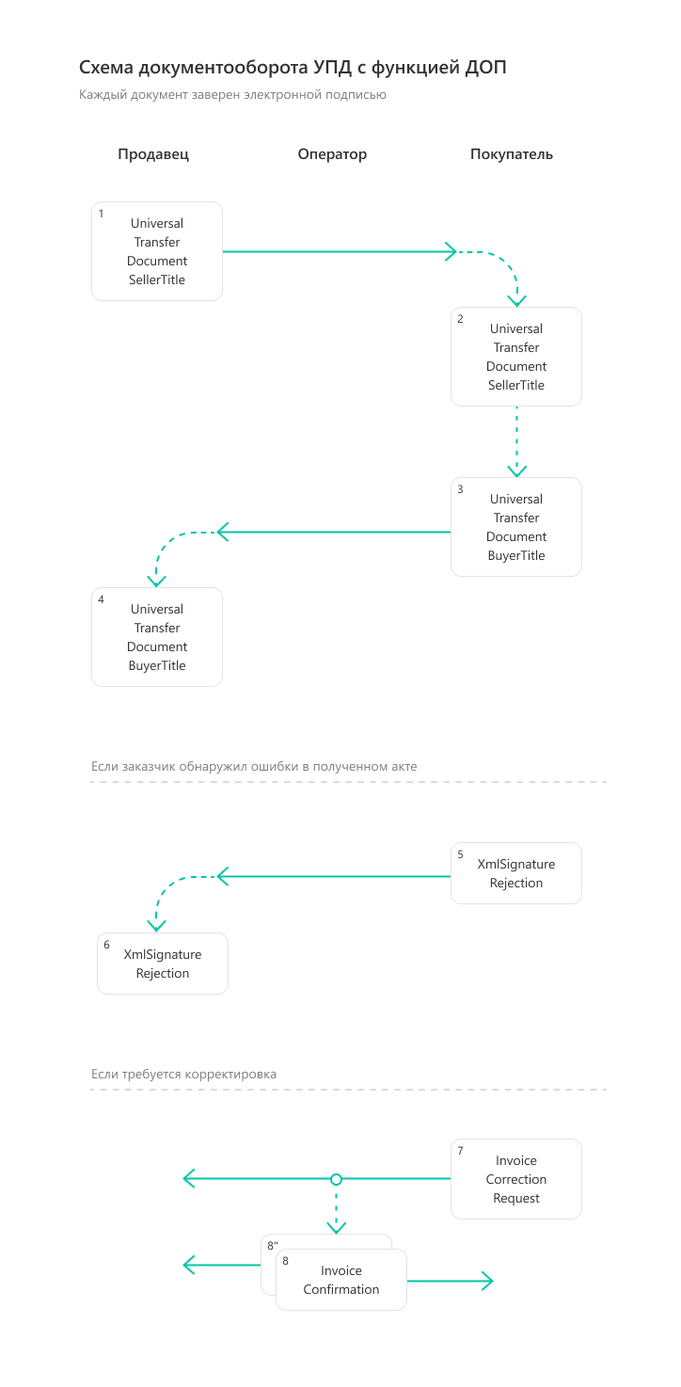
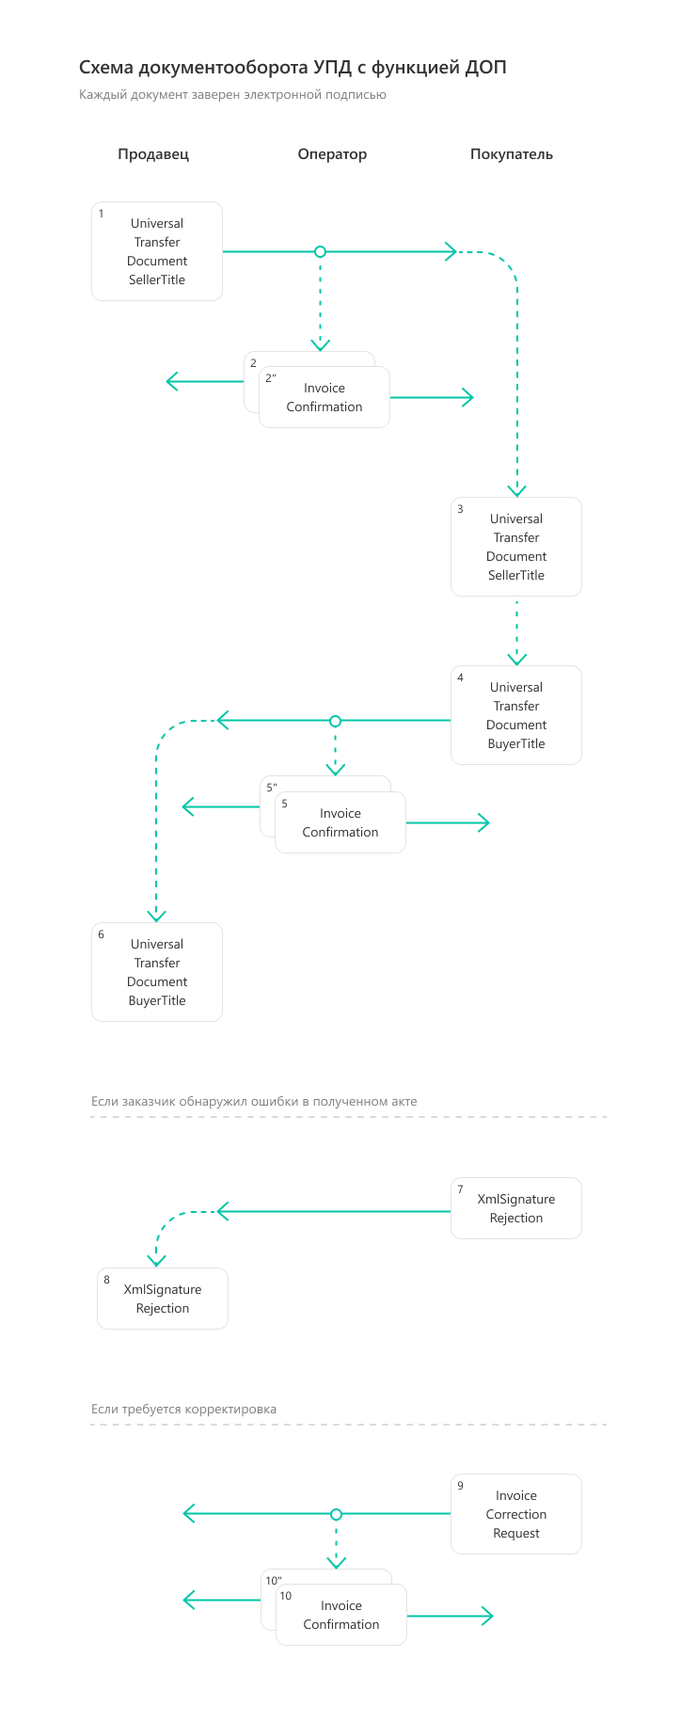
Update UtdDocflow.rst, docflow schemes

diff --git a/docs/source/docflows/UtdDocflow.rst b/docs/source/docflows/UtdDocflow.rst
@@ -49,11 +49,11 @@ XSD-схемы первого и второго титулов УПД после
 
 Для служебных документов, возникающих в ходе реализации порядка обмена УПД с функцией СЧФ:
 
--  *Attachment/InvoiceConfirmation* (подтверждение оператора электронного документооборота на УПД (СЧФ)/иУПД (СЧФ)/УКД (КСЧФ)/иУКД (КСЧФ), на извещение о получении УПД (СЧФ)/иУПД (СЧФ)/УКД (КСЧФ)/иУКД (КСЧФ), на уведомление об уточнении УПД (СЧФ)/иУПД (СЧФ)/УКД (КСЧФ)/иУКД (КСЧФ),
+- *Attachment/InvoiceConfirmation* (подтверждение оператора электронного документооборота на УПД (СЧФ)/иУПД (СЧФ)/УКД (КСЧФ)/иУКД (КСЧФ), на извещение о получении УПД (СЧФ)/иУПД (СЧФ)/УКД (КСЧФ)/иУКД (КСЧФ), на уведомление об уточнении УПД (СЧФ)/иУПД (СЧФ)/УКД (КСЧФ)/иУКД (КСЧФ),
 
--  *Attachment/InvoiceCorrectionRequest* (уведомление об уточнении УПД (СЧФ)/иУПД (СЧФ)/УКД (КСЧФ)/иУКД (КСЧФ)),
+- *Attachment/InvoiceCorrectionRequest* (уведомление об уточнении УПД (СЧФ)/иУПД (СЧФ)/УКД (КСЧФ)/иУКД (КСЧФ)),
 
--  *Attachment/InvoiceReceipt* (извещение о получении УПД (СЧФ)/иУПД (СЧФ)/УКД (КСЧФ)/иУКД (КСЧФ)).
+- *Attachment/InvoiceReceipt* (извещение о получении УПД (СЧФ)/иУПД (СЧФ)/УКД (КСЧФ)/иУКД (КСЧФ)).
 
 
 Порядок обмена
@@ -63,23 +63,23 @@ XSD-схемы первого и второго титулов УПД после
 
 Порядок документооборота, связанного с выставлением и получением счетов-фактур в электронном виде с ЭП, утвержден приказом Минфина `от 05.02.2021 N 14Н <https://normativ.kontur.ru/document?moduleId=1&documentId=385831>`_.
 
-#.  Продавец формирует УПД (СЧФ) *UniversalTransferDocument*\ :sub:`1`\, подписывает его и направляет Покупателю.
+#. Продавец формирует УПД (СЧФ) *UniversalTransferDocument*\ :sub:`1`\, подписывает его и направляет Покупателю.
 
-#.  Диадок формирует подтверждение оператора *InvoiceConfirmation*\ :sub:`2`\  о дате получения УПД (СЧФ), подписывает его и направляет Продавцу.
+#. Диадок формирует подтверждение оператора *InvoiceConfirmation*\ :sub:`2`\  о дате получения УПД (СЧФ), подписывает его и направляет Продавцу.
 
-#.  Диадок формирует подтверждение оператора *InvoiceConfirmation*\ :sub:`2'`\  о дате отправки УПД (СЧФ), подписывает его и направляет вместе с УПД (СЧФ) Покупателю.
+#. Диадок формирует подтверждение оператора *InvoiceConfirmation*\ :sub:`2'`\  о дате отправки УПД (СЧФ), подписывает его и направляет вместе с УПД (СЧФ) Покупателю.
 
-#.  Покупатель получает УПД (СЧФ) и подтверждение оператора и отправляет в ответ подписанные извещение *InvoiceReceipt*\ :sub:`3`\  о получении УПД (СЧФ).
+#. Покупатель получает УПД (СЧФ) и подтверждение оператора и отправляет в ответ подписанные извещение *InvoiceReceipt*\ :sub:`3`\  о получении УПД (СЧФ).
 
-#.  Диадок формирует подтверждение оператора *InvoiceConfirmation*\ :sub:`4`\  о дате получения извещения о получении УПД (СЧФ), подписывает его и направляет Покупателю.
+#. Диадок формирует подтверждение оператора *InvoiceConfirmation*\ :sub:`4`\  о дате получения извещения о получении УПД (СЧФ), подписывает его и направляет Покупателю.
 
-#.  Диадок формирует подтверждение оператора *InvoiceConfirmation*\ :sub:`4'`\  о дате отправки извещения о получении УПД (СЧФ), подписывает его и направляет вместе с извещением о получении Продавцу.
+#. Диадок формирует подтверждение оператора *InvoiceConfirmation*\ :sub:`4'`\  о дате отправки извещения о получении УПД (СЧФ), подписывает его и направляет вместе с извещением о получении Продавцу.
 
-#.  Если Покупатель обнаружил ошибки в полученном УПД (СЧФ), он формирует уведомление об уточнении УПД (СЧФ) *InvoiceCorrectionRequest*\ :sub:`5`\, подписывает его и направляет Продавцу.
+#. Если Покупатель обнаружил ошибки в полученном УПД (СЧФ), он формирует уведомление об уточнении УПД (СЧФ) *InvoiceCorrectionRequest*\ :sub:`5`\, подписывает его и направляет Продавцу.
 
-#.  Диадок формирует подтверждение оператора *InvoiceConfirmation*\ :sub:`6`\  о дате получения уведомления об уточнении УПД (СЧФ), подписывает его и направляет Покупателю.
+#. Диадок формирует подтверждение оператора *InvoiceConfirmation*\ :sub:`6`\  о дате получения уведомления об уточнении УПД (СЧФ), подписывает его и направляет Покупателю.
 
-#.  Диадок формирует подтверждение оператора *InvoiceConfirmation*\ :sub:`6'`\  о дате отправки уведомления об уточнении УПД (СЧФ), подписывает его и направляет вместе с уведомлением об уточнении УПД (СЧФ) Продавцу.
+#. Диадок формирует подтверждение оператора *InvoiceConfirmation*\ :sub:`6'`\  о дате отправки уведомления об уточнении УПД (СЧФ), подписывает его и направляет вместе с уведомлением об уточнении УПД (СЧФ) Продавцу.
 
 .. image:: ../_static/img/docflows/scheme-14n-utd-invoice-docflow.png
     :align: center
@@ -102,23 +102,27 @@ XSD-схемы первого и второго титулов УПД после
 
 В случае, когда УПД используется с функцией ДОП, документооборот повторяет документооборот :doc:`актов <AktDocflow>` и :doc:`накладных <Torg12Docflow>`.
 
-#.  Продавец формирует титул продавца УПД (ДОП) *UniversalTransferDocument*\ :sub:`1`\, подписывает его и направляет Покупателю.
+#. Продавец формирует титул продавца УПД (ДОП) *UniversalTransferDocument*\ :sub:`1`\, подписывает его и направляет Покупателю.
 
-#.  Диадок доставляет титул продавца УПД (ДОП) *UniversalTransferDocument*\ :sub:`1`\  до Покупателя.
+#. Диадок формирует подтверждение оператора *InvoiceConfirmation*\ :sub:`2`\  о дате получения УПД (ДОП), подписывает его и направляет Продавцу.
 
-#.  Покупатель получает титул продавца УПД (ДОП) *UniversalTransferDocument*\ :sub:`2`\, и формирует в ответ титул покупателя *UniversalTransferDocumentBuyerTitle*\ :sub:`3`\, подписывает его и отправляет в сторону Продавца.
+#. Диадок формирует подтверждение оператора *InvoiceConfirmation*\ :sub:`2'`\  о дате отправки УПД (ДОП), подписывает его и направляет вместе с УПД (ДОП) Покупателю.
 
-#.  Диадок доставляет титул покупателя УПД (ДОП) *UniversalTransferDocumentBuyerTitle*\ :sub:`4`\  до Продавца.
+#. Покупатель получает титул продавца УПД (ДОП) *UniversalTransferDocument*\ :sub:`3`\, и формирует в ответ титул покупателя *UniversalTransferDocumentBuyerTitle*\ :sub:`4`\, подписывает его и отправляет в сторону Продавца.
 
-#.  Если Покупатель обнаружил ошибки в полученном титуле продавца УПД (ДОП), он формирует отказ в подписи *XmlSignatureRejection*\ :sub:`5`\, подписывает его и направляет Продавцу.
+#. Диадок формирует подтверждение оператора *InvoiceConfirmation*\ :sub:`5`\  о дате получения УПД (ДОП), подписывает его и направляет Покупателю.
 
-#.  Диадок доставляет отказ в подписи *XmlSignatureRejection*\ :sub:`6`\  до Продавца.
+#. Диадок формирует подтверждение оператора *InvoiceConfirmation*\ :sub:`5'`\  о дате отправки УПД (ДОП), подписывает его и направляет вместе с УПД (ДОП) Продавцу.
 
-#.  Если Покупатель обнаружил ошибки в полученном титуле продавца УПД (ДОП), он формирует уведомление об уточнении УПД (ДОП) *InvoiceCorrectionRequest*\ :sub:`7`\, подписывает его и направляет Продавцу.
+#. Если Покупатель обнаружил ошибки в полученном титуле продавца УПД (ДОП), он формирует отказ в подписи *XmlSignatureRejection*\ :sub:`7`\, подписывает его и направляет Продавцу.
 
-#.  Диадок формирует подтверждение оператора *InvoiceConfirmation*\ :sub:`8`\  о дате получения уведомления об уточнении УПД (ДОП), подписывает его и направляет Покупателю.
+#. Диадок доставляет отказ в подписи *XmlSignatureRejection*\ :sub:`8`\  до Продавца.
 
-#.  Диадок формирует подтверждение оператора *InvoiceConfirmation*\ :sub:`8'`\  о дате отправки уведомления об уточнении УПД (ДОП), подписывает его и направляет вместе с уведомлением об уточнении УПД (ДОП) Продавцу.
+#. Если Покупатель обнаружил ошибки в полученном титуле продавца УПД (ДОП), он формирует уведомление об уточнении УПД (ДОП) *InvoiceCorrectionRequest*\ :sub:`9`\, подписывает его и направляет Продавцу.
+
+#. Диадок формирует подтверждение оператора *InvoiceConfirmation*\ :sub:`10`\  о дате получения уведомления об уточнении УПД (ДОП), подписывает его и направляет Покупателю.
+
+#. Диадок формирует подтверждение оператора *InvoiceConfirmation*\ :sub:`10'`\  о дате отправки уведомления об уточнении УПД (ДОП), подписывает его и направляет вместе с уведомлением об уточнении УПД (ДОП) Продавцу.
 
 .. image:: ../_static/img/docflows/scheme-14n-utd-basic-docflow.png
     :align: center
@@ -129,29 +133,31 @@ XSD-схемы первого и второго титулов УПД после
 
 В случае, когда УПД используется с функцией СЧФДОП, объединяются документообороты для УПД с фунцией СЧФ и УПД с фунцией ДОП.
 
-#.  Продавец формирует УПД (СЧФДОП) *UniversalTransferDocument*\ :sub:`1`\, подписывает его и направляет Покупателю.
+#. Продавец формирует УПД (СЧФДОП) *UniversalTransferDocument*\ :sub:`1`\, подписывает его и направляет Покупателю.
 
-#.  Диадок формирует подтверждение оператора *InvoiceConfirmation*\ :sub:`2`\  о дате получения титула продавца УПД (СЧФДОП), подписывает его и направляет Продавцу.
+#. Диадок формирует подтверждение оператора *InvoiceConfirmation*\ :sub:`2`\  о дате получения титула продавца УПД (СЧФДОП), подписывает его и направляет Продавцу.
 
-#.  Диадок формирует подтверждение оператора *InvoiceConfirmation*\ :sub:`2'`\  о дате отправки титула продавца УПД (СЧФДОП), подписывает его и направляет вместе с УПД (СЧФДОП) Покупателю.
+#. Диадок формирует подтверждение оператора *InvoiceConfirmation*\ :sub:`2'`\  о дате отправки титула продавца УПД (СЧФДОП), подписывает его и направляет вместе с УПД (СЧФДОП) Покупателю.
 
-#.  Покупатель получает титул продавца УПД (СЧФДОП) и подтверждение оператора и отправляет в ответ подписанные извещение *InvoiceReceipt*\ :sub:`3`\  о титула продавца УПД (СЧФДОП).
+#. Покупатель получает титул продавца УПД (СЧФДОП) и подтверждение оператора и отправляет в ответ подписанное извещение *InvoiceReceipt*\ :sub:`3`\  о получении титула продавца УПД (СЧФДОП).
 
-#.  Диадок формирует подтверждение оператора *InvoiceConfirmation*\ :sub:`4`\  о дате получения извещения о получении титула продавца УПД (СЧФДОП), подписывает его и направляет Покупателю.
+#. Диадок формирует подтверждение оператора *InvoiceConfirmation*\ :sub:`4`\  о дате получения извещения о получении титула продавца УПД (СЧФДОП), подписывает его и направляет Покупателю.
 
-#.  Диадок формирует подтверждение оператора *InvoiceConfirmation*\ :sub:`4'`\  о дате отправки извещения о получении титула продавца УПД (СЧФДОП), подписывает его и направляет вместе с извещением о получении Продавцу.
+#. Диадок формирует подтверждение оператора *InvoiceConfirmation*\ :sub:`4'`\  о дате отправки извещения о получении титула продавца УПД (СЧФДОП), подписывает его и направляет вместе с извещением о получении Продавцу.
 
-#.  Покупатель формирует в ответ на титул продавца УПД (СЧФДОП) титул покупателя УПД (СЧФДОП) *UniversalTransferDocumentBuyerTitle*\ :sub:`5`\, подписывает его и отправляет в сторону Продавца.
+#. Покупатель формирует в ответ на титул продавца УПД (СЧФДОП) титул покупателя УПД (СЧФДОП) *UniversalTransferDocumentBuyerTitle*\ :sub:`5`\, подписывает его и отправляет в сторону Продавца.
 
-#. Диадок доставляет титул покупателя УПД (СЧФДОП) *UniversalTransferDocumentBuyerTitle*\ :sub:`5`\  до Продавца.
+#. Диадок формирует подтверждение оператора *InvoiceConfirmation*\ :sub:`6`\  о дате получения титула покупателя УПД (СЧФДОП), подписывает его и направляет Покупателю.
 
-#.  Если Покупатель обнаружил ошибки в полученном титуле продавца УПД (СЧФДОП), он формирует отказ в подписи *XmlSignatureRejection*\ :sub:`6`\, подписывает его и направляет Продавцу.
+#. Диадок формирует подтверждение оператора *InvoiceConfirmation*\ :sub:`6'`\  о дате отправки титула покупателя УПД (СЧФДОП), подписывает его и направляет вместе с титулом покупателя Продавцу.
 
-#.  Если Покупатель обнаружил ошибки в полученном титуле продавца УПД (СЧФДОП), он формирует уведомление об уточнении УПД (СЧФДОП) *InvoiceCorrectionRequest*\ :sub:`7`\, подписывает его и направляет Продавцу.
+#. Если Покупатель обнаружил ошибки в полученном титуле продавца УПД (СЧФДОП), он формирует отказ в подписи *XmlSignatureRejection*\ :sub:`7`\, подписывает его и направляет Продавцу.
 
-#.  Диадок формирует подтверждение оператора *InvoiceConfirmation*\ :sub:`8`\  о дате получения уведомления об уточнении УПД (СЧФДОП), подписывает его и направляет Покупателю.
+#. Если Покупатель обнаружил ошибки в полученном титуле продавца УПД (СЧФДОП), он формирует уведомление об уточнении УПД (СЧФДОП) *InvoiceCorrectionRequest*\ :sub:`8`\, подписывает его и направляет Продавцу.
 
-#.  Диадок формирует подтверждение оператора *InvoiceConfirmation*\ :sub:`8'`\  о дате отправки уведомления об уточнении УПД (СЧФДОП), подписывает его и направляет вместе с уведомлением об уточнении УПД (СЧФДОП) Продавцу.
+#. Диадок формирует подтверждение оператора *InvoiceConfirmation*\ :sub:`9`\  о дате получения уведомления об уточнении УПД (СЧФДОП), подписывает его и направляет Покупателю.
+
+#. Диадок формирует подтверждение оператора *InvoiceConfirmation*\ :sub:`9'`\  о дате отправки уведомления об уточнении УПД (СЧФДОП), подписывает его и направляет вместе с уведомлением об уточнении УПД (СЧФДОП) Продавцу.
 
 .. image:: ../_static/img/docflows/scheme-14n-utd-docflow.png
     :align: center
@@ -186,11 +192,11 @@ XSD-схемы первого и второго титулов УПД после
 
 Для служебных документов, возникающих в ходе реализации порядка обмена УПД с функцией СЧФ:
 
--  *Attachment/InvoiceConfirmation* (подтверждение оператора электронного документооборота на УПД (СЧФ)/иУПД (СЧФ)/УКД (КСЧФ)/иУКД (КСЧФ), на извещение о получении УПД (СЧФ)/иУПД (СЧФ)/УКД (КСЧФ)/иУКД (КСЧФ),
+- *Attachment/InvoiceConfirmation* (подтверждение оператора электронного документооборота на УПД (СЧФ)/иУПД (СЧФ)/УКД (КСЧФ)/иУКД (КСЧФ), на извещение о получении УПД (СЧФ)/иУПД (СЧФ)/УКД (КСЧФ)/иУКД (КСЧФ),
 
--  *Attachment/InvoiceCorrectionRequest* (уведомление об уточнении УПД (СЧФ)/иУПД (СЧФ)/УКД (КСЧФ)/иУКД (КСЧФ)),
+- *Attachment/InvoiceCorrectionRequest* (уведомление об уточнении УПД (СЧФ)/иУПД (СЧФ)/УКД (КСЧФ)/иУКД (КСЧФ)),
 
--  *Attachment/InvoiceReceipt* (извещение о получении УПД (СЧФ)/иУПД (СЧФ)/УКД (КСЧФ)/иУКД (КСЧФ), подтверждения оператора электронного документооборота, уведомления об уточнении УПД (СЧФ)/иУПД (СЧФ)/УКД (КСЧФ)/иУКД (КСЧФ)).
+- *Attachment/InvoiceReceipt* (извещение о получении УПД (СЧФ)/иУПД (СЧФ)/УКД (КСЧФ)/иУКД (КСЧФ), подтверждения оператора электронного документооборота, уведомления об уточнении УПД (СЧФ)/иУПД (СЧФ)/УКД (КСЧФ)/иУКД (КСЧФ)).
 
 
 Порядок обмена
@@ -198,23 +204,23 @@ XSD-схемы первого и второго титулов УПД после
 
 В случае, когда УПД используется с функцией СЧФ, документооборот повторяет :doc:`документооборот СФ <InvoiceDocflow>`.
 
-#.  Продавец формирует УПД (СЧФ) *UniversalTransferDocument*\ :sub:`1`\, подписывает его и направляет Покупателю.
+#. Продавец формирует УПД (СЧФ) *UniversalTransferDocument*\ :sub:`1`\, подписывает его и направляет Покупателю.
 
-#.  Диадок формирует подтверждение оператора *InvoiceConfirmation*\ :sub:`2`\  о дате получения УПД (СЧФ), подписывает его и направляет Продавцу.
+#. Диадок формирует подтверждение оператора *InvoiceConfirmation*\ :sub:`2`\  о дате получения УПД (СЧФ), подписывает его и направляет Продавцу.
 
-#.  Диадок формирует подтверждение оператора *InvoiceConfirmation*\ :sub:`2'`\  о дате отправки УПД (СЧФ), подписывает его и направляет вместе с УПД (СЧФ) Покупателю.
+#. Диадок формирует подтверждение оператора *InvoiceConfirmation*\ :sub:`2'`\  о дате отправки УПД (СЧФ), подписывает его и направляет вместе с УПД (СЧФ) Покупателю.
 
-#.  Продавец получает подтверждение оператора и отправляет в ответ подписанное извещение *InvoiceReceipt*\ :sub:`3`\  о получении подтверждения.
+#. Продавец получает подтверждение оператора и отправляет в ответ подписанное извещение *InvoiceReceipt*\ :sub:`3`\  о получении подтверждения.
 
-#.  Покупатель получает УПД (СЧФ) и подтверждение оператора и отправляет в ответ подписанные извещение *InvoiceReceipt*\ :sub:`5`\  о получении УПД (СЧФ) и извещение *InvoiceReceipt*\ :sub:`4`\ о получении подтверждения.
+#. Покупатель получает УПД (СЧФ) и подтверждение оператора и отправляет в ответ подписанные извещение *InvoiceReceipt*\ :sub:`5`\  о получении УПД (СЧФ) и извещение *InvoiceReceipt*\ :sub:`4`\ о получении подтверждения.
 
-#.  Диадок формирует подтверждение оператора *InvoiceConfirmation*\ :sub:`6`\ о дате отправки извещения о получении УПД (СЧФ), подписывает его и направляет Покупателю.
+#. Диадок формирует подтверждение оператора *InvoiceConfirmation*\ :sub:`6`\ о дате отправки извещения о получении УПД (СЧФ), подписывает его и направляет Покупателю.
 
-#.  Покупатель получает подтверждение оператора и отправляет в ответ подписанное извещение *InvoiceReceipt*\ :sub:`7`\  о получении подтверждения.
+#. Покупатель получает подтверждение оператора и отправляет в ответ подписанное извещение *InvoiceReceipt*\ :sub:`7`\  о получении подтверждения.
 
-#.  Если Покупатель обнаружил ошибки в полученном УПД (СЧФ), он формирует уведомление об уточнении УПД (СЧФ) *InvoiceCorrectionRequest*\ :sub:`8`\, подписывает его и направляет Продавцу.
+#. Если Покупатель обнаружил ошибки в полученном УПД (СЧФ), он формирует уведомление об уточнении УПД (СЧФ) *InvoiceCorrectionRequest*\ :sub:`8`\, подписывает его и направляет Продавцу.
 
-#.  Продавец получает уведомление об уточнении УПД (СЧФ), и отправляет в ответ подписанное извещение *InvoiceReceipt*\ :sub:`9`\ о получении уведомления.
+#. Продавец получает уведомление об уточнении УПД (СЧФ), и отправляет в ответ подписанное извещение *InvoiceReceipt*\ :sub:`9`\ о получении уведомления.
 
 .. image:: ../_static/img/docflows/scheme-04-utd-invoice-docflow.png
     :align: center
@@ -237,17 +243,17 @@ XSD-схемы первого и второго титулов УПД после
 
 В случае, когда УПД используется с функцией ДОП, документооборот повторяет документооборот :doc:`актов <AktDocflow>` и :doc:`накладных <Torg12Docflow>`.
 
-#.  Продавец формирует титул продавца УПД (ДОП) *UniversalTransferDocument*\ :sub:`1`\, подписывает его и направляет Покупателю.
+#. Продавец формирует титул продавца УПД (ДОП) *UniversalTransferDocument*\ :sub:`1`\, подписывает его и направляет Покупателю.
 
-#.  Диадок доставляет титул продавца УПД (ДОП) *UniversalTransferDocument*\ :sub:`1`\  до Покупателя.
+#. Диадок доставляет титул продавца УПД (ДОП) *UniversalTransferDocument*\ :sub:`1`\  до Покупателя.
 
-#.  Покупатель получает титул продавца УПД (ДОП) *UniversalTransferDocument*\ :sub:`2`\, и формирует в ответ титул покупателя *UniversalTransferDocumentBuyerTitle*\ :sub:`3`\, подписывает его и отправляет в сторону Продавца.
+#. Покупатель получает титул продавца УПД (ДОП) *UniversalTransferDocument*\ :sub:`2`\, и формирует в ответ титул покупателя *UniversalTransferDocumentBuyerTitle*\ :sub:`3`\, подписывает его и отправляет в сторону Продавца.
 
-#.  Диадок доставляет титул покупателя УПД (ДОП) *UniversalTransferDocumentBuyerTitle*\ :sub:`4`\  до Продавца.
+#. Диадок доставляет титул покупателя УПД (ДОП) *UniversalTransferDocumentBuyerTitle*\ :sub:`4`\  до Продавца.
 
-#.  Если Покупатель обнаружил ошибки в полученном титуле продавца УПД (ДОП), он формирует отказ в подписи *XmlSignatureRejection*\ :sub:`5`\, подписывает его и направляет Продавцу.
+#. Если Покупатель обнаружил ошибки в полученном титуле продавца УПД (ДОП), он формирует отказ в подписи *XmlSignatureRejection*\ :sub:`5`\, подписывает его и направляет Продавцу.
 
-#.  Диадок доставляет отказ в подписи *XmlSignatureRejection*\ :sub:`5`\ до Продавца.
+#. Диадок доставляет отказ в подписи *XmlSignatureRejection*\ :sub:`5`\ до Продавца.
 
 .. image:: ../_static/img/docflows/scheme-05-utd-basic-docflow.png
     :align: center
@@ -257,29 +263,29 @@ XSD-схемы первого и второго титулов УПД после
 
 В случае, когда УПД используется с функцией СЧФДОП, объединяются документообороты для УПД с фунцией СЧФ и УПД с фунцией ДОП.
 
-#.  Продавец формирует титул продавца УПД (СЧФДОП) *UniversalTransferDocument*\ :sub:`1`\, подписывает его и направляет Покупателю.
+#. Продавец формирует титул продавца УПД (СЧФДОП) *UniversalTransferDocument*\ :sub:`1`\, подписывает его и направляет Покупателю.
 
-#.  Диадок формирует подтверждение оператора *InvoiceConfirmation*\ :sub:`2`\  о дате получения титула продавца УПД (СЧФДОП), подписывает его и направляет Продавцу.
+#. Диадок формирует подтверждение оператора *InvoiceConfirmation*\ :sub:`2`\  о дате получения титула продавца УПД (СЧФДОП), подписывает его и направляет Продавцу.
 
-#.  Диадок формирует подтверждение оператора *InvoiceConfirmation*\ :sub:`2'`\  о дате отправки титула продавца УПД (СЧФДОП), подписывает его и направляет вместе со УПД (СЧФДОП) Покупателю.
+#. Диадок формирует подтверждение оператора *InvoiceConfirmation*\ :sub:`2'`\  о дате отправки титула продавца УПД (СЧФДОП), подписывает его и направляет вместе со УПД (СЧФДОП) Покупателю.
 
-#.  Продавец получает подтверждение оператора и отправляет в ответ подписанное извещение *InvoiceReceipt*\ :sub:`3`\  о получении подтверждения.
+#. Продавец получает подтверждение оператора и отправляет в ответ подписанное извещение *InvoiceReceipt*\ :sub:`3`\  о получении подтверждения.
 
-#.  Покупатель получает титул продавца УПД (СЧФДОП) и подтверждение оператора и отправляет в ответ подписанные извещение *InvoiceReceipt*\ :sub:`5`\  о получении титула продавца УПД (СЧФДОП) и извещение *InvoiceReceipt*\ :sub:`4`\  о получении подтверждения.
+#. Покупатель получает титул продавца УПД (СЧФДОП) и подтверждение оператора и отправляет в ответ подписанные извещение *InvoiceReceipt*\ :sub:`5`\  о получении титула продавца УПД (СЧФДОП) и извещение *InvoiceReceipt*\ :sub:`4`\  о получении подтверждения.
 
-#.  Диадок формирует подтверждение оператора *InvoiceConfirmation*\ :sub:`6`\  о дате отправки извещения о получении титула продавца УПД (СЧФДОП), подписывает его и направляет Покупателю.
+#. Диадок формирует подтверждение оператора *InvoiceConfirmation*\ :sub:`6`\  о дате отправки извещения о получении титула продавца УПД (СЧФДОП), подписывает его и направляет Покупателю.
 
-#.  Покупатель получает подтверждение оператора и отправляет в ответ подписанное извещение *InvoiceReceipt*\ :sub:`7`\  о получении подтверждения.
+#. Покупатель получает подтверждение оператора и отправляет в ответ подписанное извещение *InvoiceReceipt*\ :sub:`7`\  о получении подтверждения.
 
-#.  Покупатель формирует в ответ на титул продавца УПД (СЧФДОП), титул покупателя УПД (СЧФДОП) *UniversalTransferDocumentBuyerTitle*\ :sub:`8`\, подписывает его и отправляет в сторону Продавца.
+#. Покупатель формирует в ответ на титул продавца УПД (СЧФДОП), титул покупателя УПД (СЧФДОП) *UniversalTransferDocumentBuyerTitle*\ :sub:`8`\, подписывает его и отправляет в сторону Продавца.
 
-#.  Диадок доставляет титул покупателя УПД (СЧФДОП) *UniversalTransferDocumentBuyerTitle*\ :sub:`9`\  до Продавца.
+#. Диадок доставляет титул покупателя УПД (СЧФДОП) *UniversalTransferDocumentBuyerTitle*\ :sub:`9`\  до Продавца.
 
-#.  Если Покупатель обнаружил ошибки в полученном титуле продавца УПД (СЧФДОП), он формирует отказ в подписи *XmlSignatureRejection*\ :sub:`10`\, подписывает его и направляет Продавцу.
+#. Если Покупатель обнаружил ошибки в полученном титуле продавца УПД (СЧФДОП), он формирует отказ в подписи *XmlSignatureRejection*\ :sub:`10`\, подписывает его и направляет Продавцу.
 
-#.  Если Покупатель обнаружил ошибки в полученном титуле продавца УПД (СЧФДОП), он формирует уведомление об уточнении УПД (СЧФДОП) *InvoiceCorrectionRequest*\ :sub:`11`\, подписывает его и направляет Продавцу.
+#. Если Покупатель обнаружил ошибки в полученном титуле продавца УПД (СЧФДОП), он формирует уведомление об уточнении УПД (СЧФДОП) *InvoiceCorrectionRequest*\ :sub:`11`\, подписывает его и направляет Продавцу.
 
-#.  Продавец получает уведомление об уточнении УПД (СЧФДОП), и отправляет в ответ подписанное извещение *InvoiceReceipt*\ :sub:`12`\  о получении уведомления.
+#. Продавец получает уведомление об уточнении УПД (СЧФДОП), и отправляет в ответ подписанное извещение *InvoiceReceipt*\ :sub:`12`\  о получении уведомления.
 
 .. image:: ../_static/img/docflows/scheme-06-utd-docflow.png
     :align: center
@@ -300,8 +306,8 @@ XSD-схемы первого и второго титулов УПД после
 
 Для указания этих данных в Диадоке добавлены следующие структуры и методы:
 
--  структура для описания реквизитов продавца, покупателя и грузоотправителя, используемая в УПД и УКД - :doc:`../proto/utd/ExtendedOrganizationInfo`
+- структура для описания реквизитов продавца, покупателя и грузоотправителя, используемая в УПД и УКД - :doc:`../proto/utd/ExtendedOrganizationInfo`
 
--  структура для описания реквизитов подписанта, используемая в УПД и УКД - :doc:`../proto/utd/ExtendedSigner`
+- структура для описания реквизитов подписанта, используемая в УПД и УКД - :doc:`../proto/utd/ExtendedSigner`
 
--  структура для описания реквизитов подписанта, используемая в методе :doc:`../http/utd/ExtendedSignerDetailsV2` - :doc:`../proto/utd/ExtendedSignerDetailsToPost`
+- структура для описания реквизитов подписанта, используемая в методе :doc:`../http/utd/ExtendedSignerDetailsV2` - :doc:`../proto/utd/ExtendedSignerDetailsToPost`
